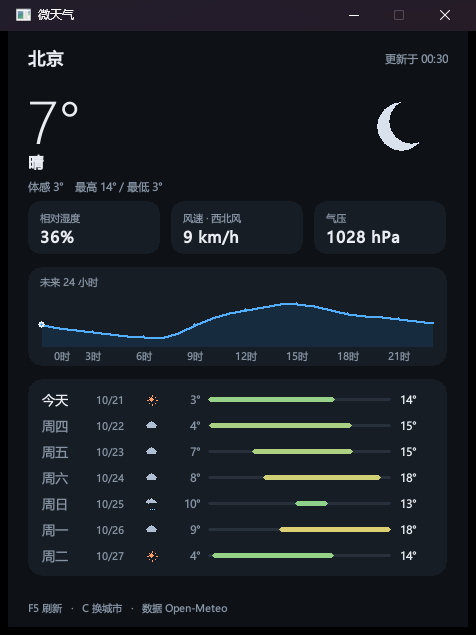
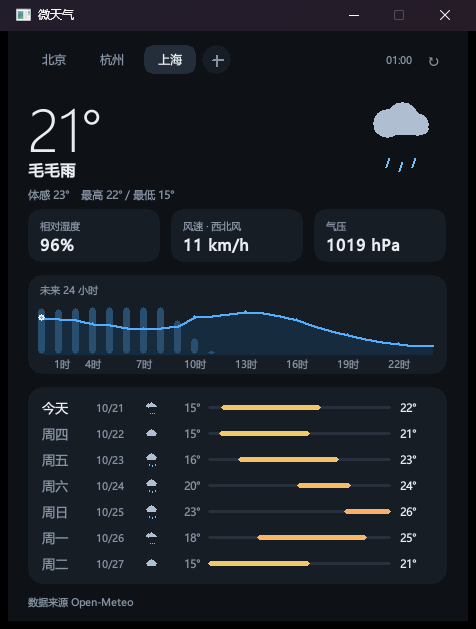
docs: 更新 README 与界面预览图

diff --git a/README.md b/README.md
@@ -8,26 +8,27 @@
 ## 为什么这样写
 
 目标很明确：内存占用尽可能低。所以没有选 Web 技术栈，也没有用 .NET —— 直接用 Win32 的子窗口/消息循环，
-界面全部用 GDI 画在窗口客户区里。
+界面全部用 GDI 画在窗口客户区里（标签、按钮、图标都是自绘，没有用任何控件）。
 
 | 指标 | 实测 |
 | --- | --- |
-| 可执行文件 | 222 KB（静态链接 CRT） |
-| 私有内存 | ~7.7 MB |
-| 工作集合 | ~24 MB（其中大部分是 winhttp / crypt32 等系统 DLL 的共享页） |
-| GDI / 句柄 | ~345 句柄 |
+| 可执行文件 | 223 KB（静态链接 CRT） |
+| 私有内存 | ~7.6 MB |
+| 工作集合 | ~23 MB（其中大部分是 winhttp / crypt32 等系统 DLL 的共享页） |
+| 句柄 | ~320 |
 | 线程 | 1 个自建后台线程 + WinHTTP 内部线程 |
-| 第三方依赖 | 无（只用系统自带的 winhttp / gdi32 / user32） |
+| 第三方依赖 | 无（只用系统自带的 winhttp / gdi32 / user32 / advapi32） |
 | 空闲 CPU | 0%（定时器 10 分钟一次刷新） |
 
 ## 功能
 
+- 顶部常用城市标签栏，最多 5 个城市，点击切换、悬停出 `×` 删除，`+` 号搜索新城市
+- 右上角刷新按钮，配合自动刷新（每 10 分钟）
 - 当前温度、天气现象、体感温度、当日最高/最低
 - 相对湿度、风速与风向、海平面气压
 - 未来 24 小时温度曲线（叠加降水概率柱）
 - 7 天预报，温度区间条按温度着色
 - 城市搜索：内置 Open-Meteo Geocoding，支持中文城市名
-- F5 手动刷新、每 10 分钟自动刷新
 - 深色界面，跟随系统 DPI 缩放，双缓冲绘制无闪烁
 
 ## 快捷键
@@ -35,7 +36,7 @@
 | 操作 | 说明 |
 | --- | --- |
 | `F5` | 立即刷新 |
-| `C` 或点击城市名 | 输入城市名，回车确认，Esc 取消 |
+| `C` | 打开城市输入框（回车确认，Esc 取消） |
 
 ## 构建
 
@@ -61,23 +62,26 @@ build.bat test
 `tools/` 下是开发辅助程序（不参与打包）：
 
 - `shot.c` —— 把运行中的窗口截成原始位图，配合 `tools/raw2png.py` 生成 PNG（文档截图用）
-- `uitest.c` —— 交互冒烟测试：模拟按 `C` 输入城市、回车提交、`F5` 刷新
+- `uitest.c` —— 交互冒烟测试：模拟加城市、切标签、点删除、悬停、刷新
 
 ```bat
 build.bat shot
-build\uitest.exe 杭州
+build\uitest.exe add 杭州      :: 打开输入框 → 输入 → 回车
+build\uitest.exe click 116 29  :: 客户端坐标点击（切标签 / 点 × / 点刷新）
+build\uitest.exe hoverreal 46 29
 ```
 
 ## 目录结构
 
 ```
-src/app.h     共享类型、主题配色、全局状态
-src/main.c    窗口、消息循环、后台任务调度、城市输入框
-src/ui.c      全部界面绘制（GDI，双缓冲）
+src/app.h     共享类型、主题配色、全局状态、注册表接口
+src/main.c    窗口、消息循环、常用城市管理、后台任务调度
+src/ui.c      全部界面绘制与标签栏布局（GDI，双缓冲）
 src/api.c     Open-Meteo 请求构造与解析、WMO 天气码中文文案
 src/net.c     WinHTTP 同步 GET 封装
 src/json.c    极简 JSON 解析器（直接解码为 UTF-16）
-src/util.c    UTF-8 转换、配置文件读写
+src/store.c   常用城市持久化（注册表）与旧配置迁移
+src/util.c    UTF-8 转换、字符串工具
 tests/        JSON 自检用例 + 真实响应样本
 tools/        截图与交互测试小工具
 ```
@@ -87,10 +91,20 @@ tools/        截图与交互测试小工具
 天气与地理编码均来自 [Open-Meteo](https://open-meteo.com/)，免费且无需 API Key。
 客户端只发送经纬度坐标（或你输入的城市名），不发送任何设备标识。
 
-选中城市保存在 `%APPDATA%\MiniWeather\config.txt`，删除该文件即恢复默认（北京）。
+常用城市列表与当前选中项保存在注册表：
+
+```
+HKEY_CURRENT_USER\Software\MiniWeather
+  Cities = REG_MULTI_SZ  '北京|39.9042|116.4074' '杭州|30.2936|120.1614' ...
+  Active = REG_SZ        '北京'
+```
+
+首次运行若检测到旧版的 `%APPDATA%\MiniWeather\config.txt`，会自动迁移成一条城市记录。
+删掉这个注册表键即恢复默认（北京）。
 
 ## 已知限制
 
 - 仅支持 Windows 10 及以上（用到 `GetDpiForSystem`、`SetProcessDpiAwarenessContext`，缺失时自动降级）
 - 窗口固定尺寸，不支持拖拽缩放
+- 城市名较长且数量到上限时，标签文字会自动省略
 - 网络走系统代理设置，需要能访问 `api.open-meteo.com`
